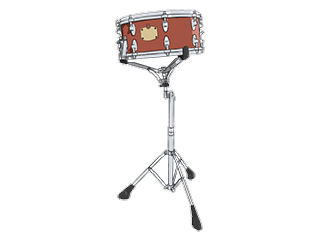
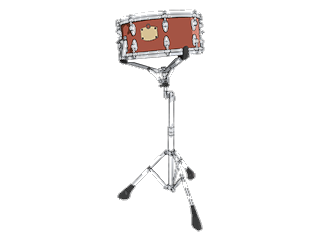
fix(instruments): 鼓类保鼓面去余衬、点阵贴近文案、移动端按宽度自适应

diff --git a/src/hooks/useInstrumentModel.ts b/src/hooks/useInstrumentModel.ts
@@ -2,12 +2,14 @@ import { useCallback, useRef, useState } from 'react'
 
 /**
  * A particle shape sampled from a source image: normalized coordinates centered on the
- * artwork, y pointing up, height mapped to 1 (so width spans [-aspect/2, aspect/2]).
+ * artwork's opaque bounding box, y pointing up, height mapped to 1. `spanX` is the
+ * horizontal extent of that box (for fitting long instruments into narrow viewports).
  * Layout: [x, y, alpha] per point.
  */
 export type ShapeModel = {
   points: Float32Array
   aspect: number
+  spanX: number
 }
 
 const MAX_POINTS = 7000
@@ -42,21 +44,34 @@ async function sampleImage(src: string): Promise<ShapeModel> {
   const { data } = context.getImageData(0, 0, width, height)
 
   const collected: number[] = []
-  for (let y = 0; y < height; y += SAMPLE_STEP) {
-    for (let x = 0; x < width; x += SAMPLE_STEP) {
+  let minNX = Infinity
+  let maxNX = -Infinity
+  for (let y = 0; y < height; y += 1) {
+    for (let x = 0; x < width; x += 1) {
       const alpha = data[(y * width + x) * 4 + 3]
       if (alpha < ALPHA_THRESHOLD) continue
-      // height-normalized, centered, y up
-      collected.push((x + SAMPLE_STEP / 2 - width / 2) / height)
+      // height-normalized, y up
+      const nx = (x + SAMPLE_STEP / 2 - width / 2) / height
+      if (nx < minNX) minNX = nx
+      if (nx > maxNX) maxNX = nx
+      collected.push(nx)
       collected.push((height / 2 - y - SAMPLE_STEP / 2) / height)
       collected.push(alpha / 255)
     }
   }
+  if (!Number.isFinite(minNX)) {
+    return { points: new Float32Array(0), aspect: width / height, spanX: 0 }
+  }
 
   const all = Float32Array.from(collected)
+  const spanX = maxNX - minNX
+  // recenter on the opaque bounding box so long instruments stay centered when scaled
+  const centerX = (minNX + maxNX) / 2
+  for (let i = 0; i < all.length; i += 3) all[i] -= centerX
+
   const tripletCount = Math.floor(all.length / 3)
   if (tripletCount === 0) {
-    return { points: new Float32Array(0), aspect: width / height }
+    return { points: new Float32Array(0), aspect: width / height, spanX }
   }
 
   if (tripletCount > MAX_POINTS) {
@@ -69,11 +84,11 @@ async function sampleImage(src: string): Promise<ShapeModel> {
       keep[i * 3 + 2] = all[src + 2]
     }
     shuffleTriplets(keep, MAX_POINTS)
-    return { points: keep, aspect: width / height }
+    return { points: keep, aspect: width / height, spanX }
   }
 
   shuffleTriplets(all, tripletCount)
-  return { points: all.subarray(0, tripletCount * 3), aspect: width / height }
+  return { points: all.subarray(0, tripletCount * 3), aspect: width / height, spanX }
 }
 
 /**

diff --git a/src/components/instruments/ParticleStage.tsx b/src/components/instruments/ParticleStage.tsx
@@ -1,4 +1,4 @@
-import { useEffect, useRef, useState } from 'react'
+import { useEffect, useMemo, useRef, useState } from 'react'
 
 import { usePointerTracker } from '@/hooks/usePointerTracker'
 import type { ShapeModel } from '@/hooks/useInstrumentModel'
@@ -37,6 +37,14 @@ export function ParticleStage({
 
   const pointer = usePointerTracker(canvasRef, active)
 
+  // Long instruments must fit narrow viewports: cap the scale so the cloud's opaque
+  // width never exceeds ~86% of the screen.
+  const fittedTransform = useMemo<ParticleTransform>(() => {
+    if (!shape || shape.spanX <= 0.05) return transform
+    const maxScale = (width * 0.86) / shape.spanX
+    return maxScale >= transform.scale ? transform : { ...transform, scale: maxScale }
+  }, [shape, transform, width])
+
   // One-time init: create the GL renderer and the field sized to the first viewport.
   useEffect(() => {
     const canvas = canvasRef.current
@@ -68,13 +76,13 @@ export function ParticleStage({
   }, [width, height])
 
   useEffect(() => {
-    fieldRef.current?.setTransform(transform)
-  }, [transform])
+    fieldRef.current?.setTransform(fittedTransform)
+  }, [fittedTransform])
 
   // New shape (or re-entering the section) → fresh targets, AK appear()-style.
   useEffect(() => {
-    fieldRef.current?.setShape(shape, transform)
-  }, [shape, transform, active])
+    fieldRef.current?.setShape(shape, fittedTransform)
+  }, [shape, fittedTransform, active])
 
   useEffect(() => {
     const field = fieldRef.current
@@ -116,8 +124,8 @@ export function ParticleStage({
           className="max-h-[52vh] opacity-70"
           style={{
             position: 'absolute',
-            left: `calc(50% + ${transform.x}px)`,
-            top: `calc(50% - ${transform.y}px)`,
+            left: `calc(50% + ${fittedTransform.x}px)`,
+            top: `calc(50% - ${fittedTransform.y}px)`,
             transform: 'translate(-50%, -50%)',
           }}
         />

diff --git a/src/components/instruments/InstrumentsSection.tsx b/src/components/instruments/InstrumentsSection.tsx
@@ -86,18 +86,18 @@ export function InstrumentsSection({ active = false }: { active?: boolean }) {
     return () => window.removeEventListener('keydown', onKeyDown)
   }, [detailOpen, step, markInteracted])
 
-  // Particle cloud placement, mirroring the reference: right of centre in the list,
-  // sliding left behind the copy in the detail view; phones keep it on top.
+  // Particle cloud placement: tucked close to the copy on both sides of the screen —
+  // beside the list in list mode, sliding behind the copy in the detail view.
   const transform = useMemo<ParticleTransform>(() => {
     const scale = isNarrow
-      ? Math.min(420, Math.max(240, height * 0.48))
-      : Math.min(800, Math.max(380, height * 0.72))
+      ? Math.min(480, Math.max(280, height * 0.55))
+      : Math.min(860, Math.max(400, height * 0.76))
     if (isNarrow) {
       return { scale, x: 0, y: height * (detailOpen ? 0.15 : 0.18) }
     }
     return detailOpen
-      ? { scale: scale * 0.85, x: -width * 0.16, y: height * 0.04 }
-      : { scale, x: width * 0.17, y: height * 0.02 }
+      ? { scale: scale * 0.9, x: -width * 0.1, y: height * 0.04 }
+      : { scale, x: width * 0.1, y: height * 0.02 }
   }, [detailOpen, height, isNarrow, width])
 
   const openInstrument = useCallback(
